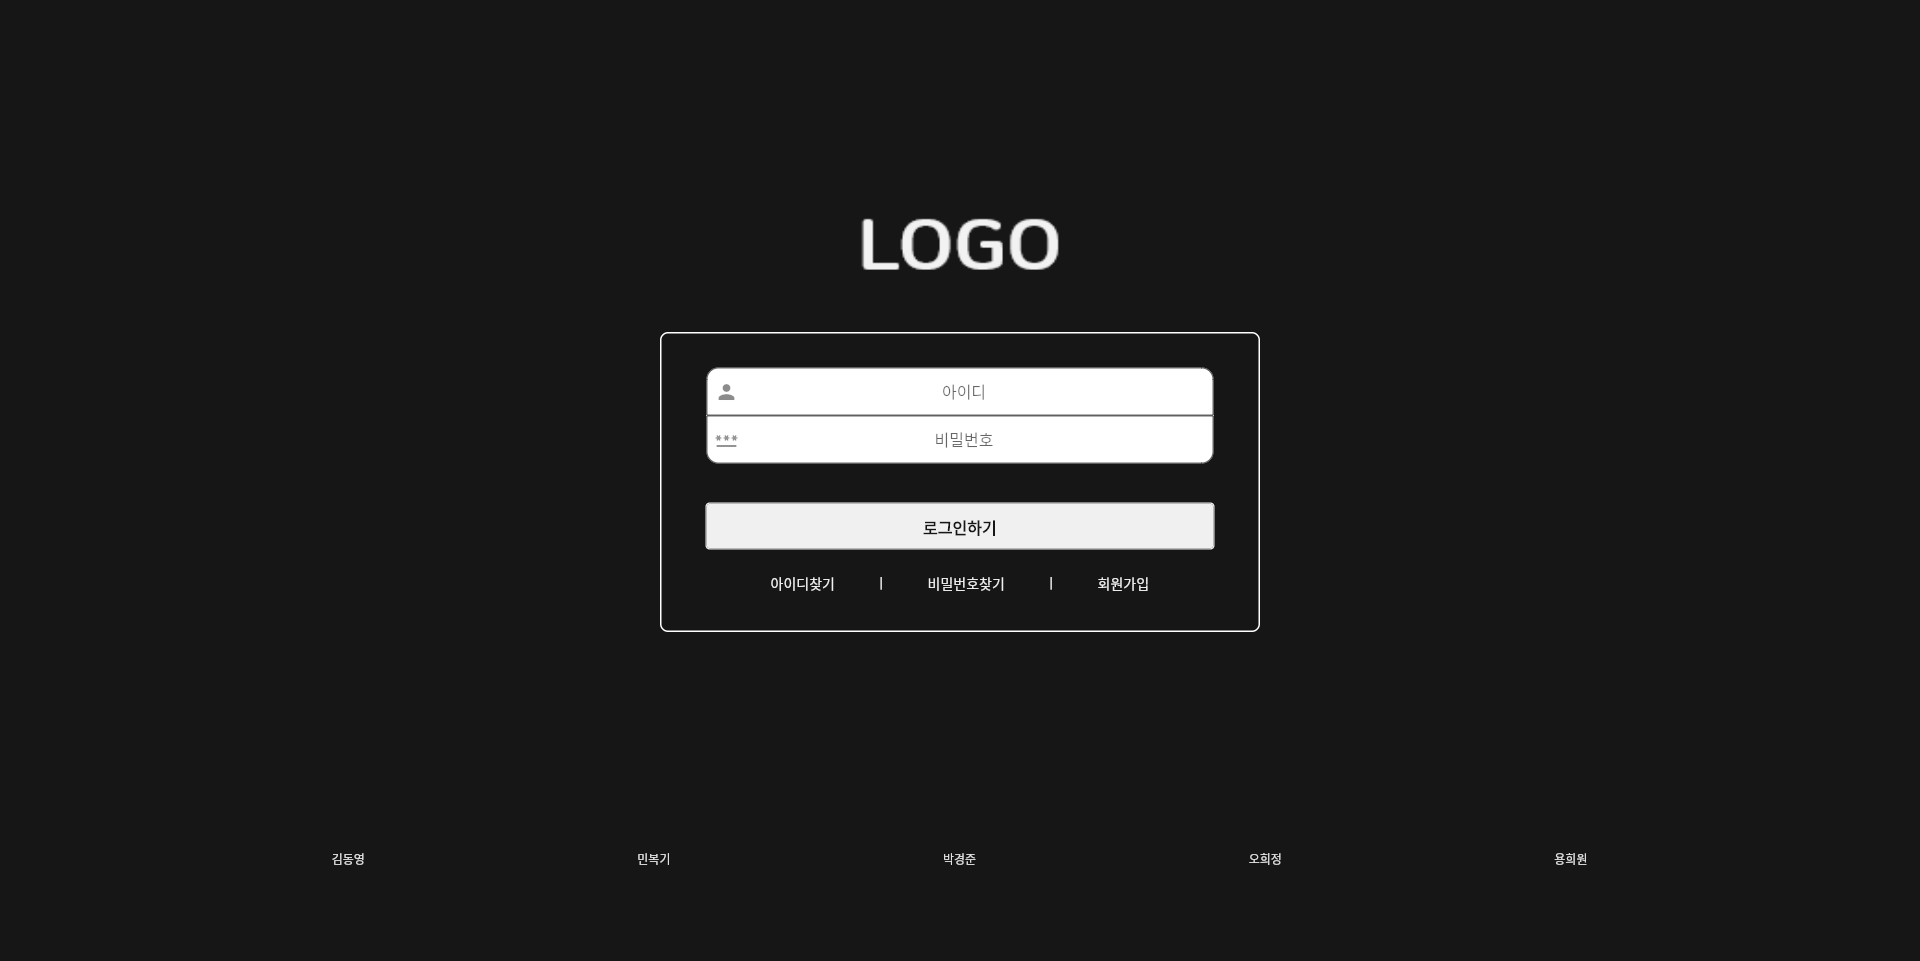
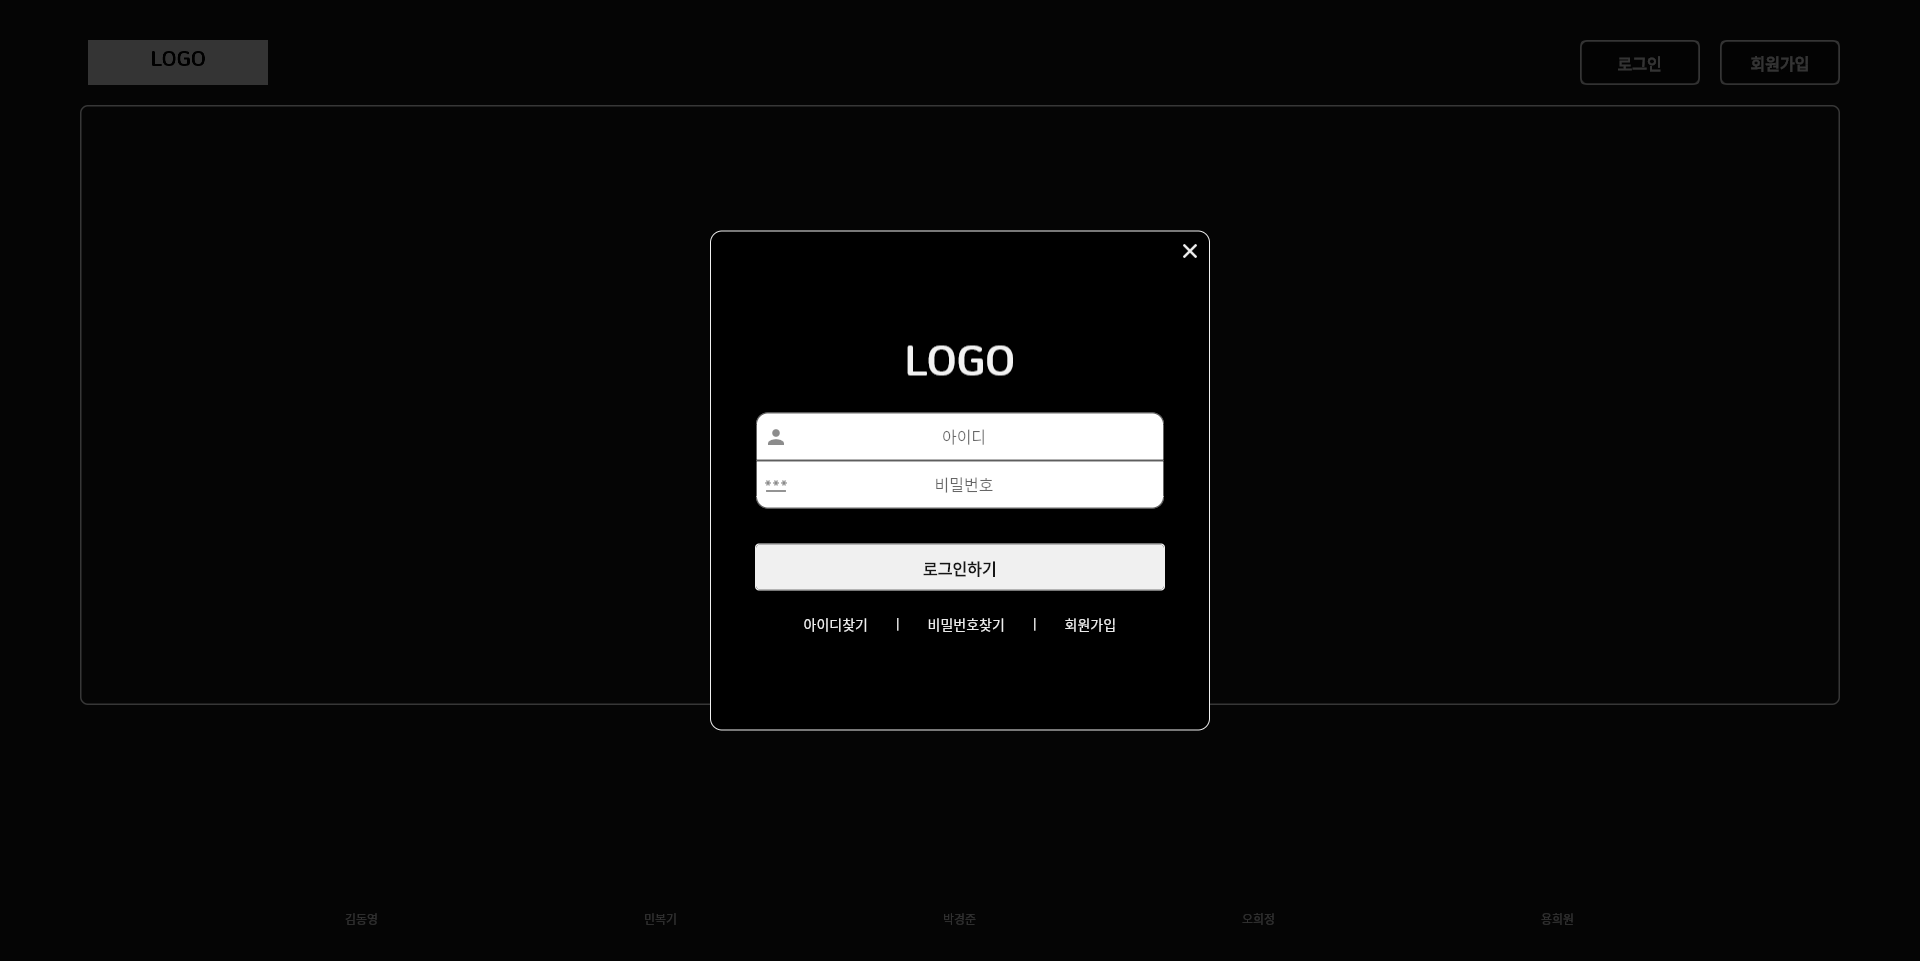
docs: v3.0 스크린샷 업데이트

diff --git a/UI/README.md b/UI/README.md
@@ -17,6 +17,6 @@ Some steps to run a Flutter Project
 
 ## Screenshots
 
-- 'UI/screenshots' (last update 22/01/19)
+- 'UI/screenshots' (last update 22/01/24)
 
 
